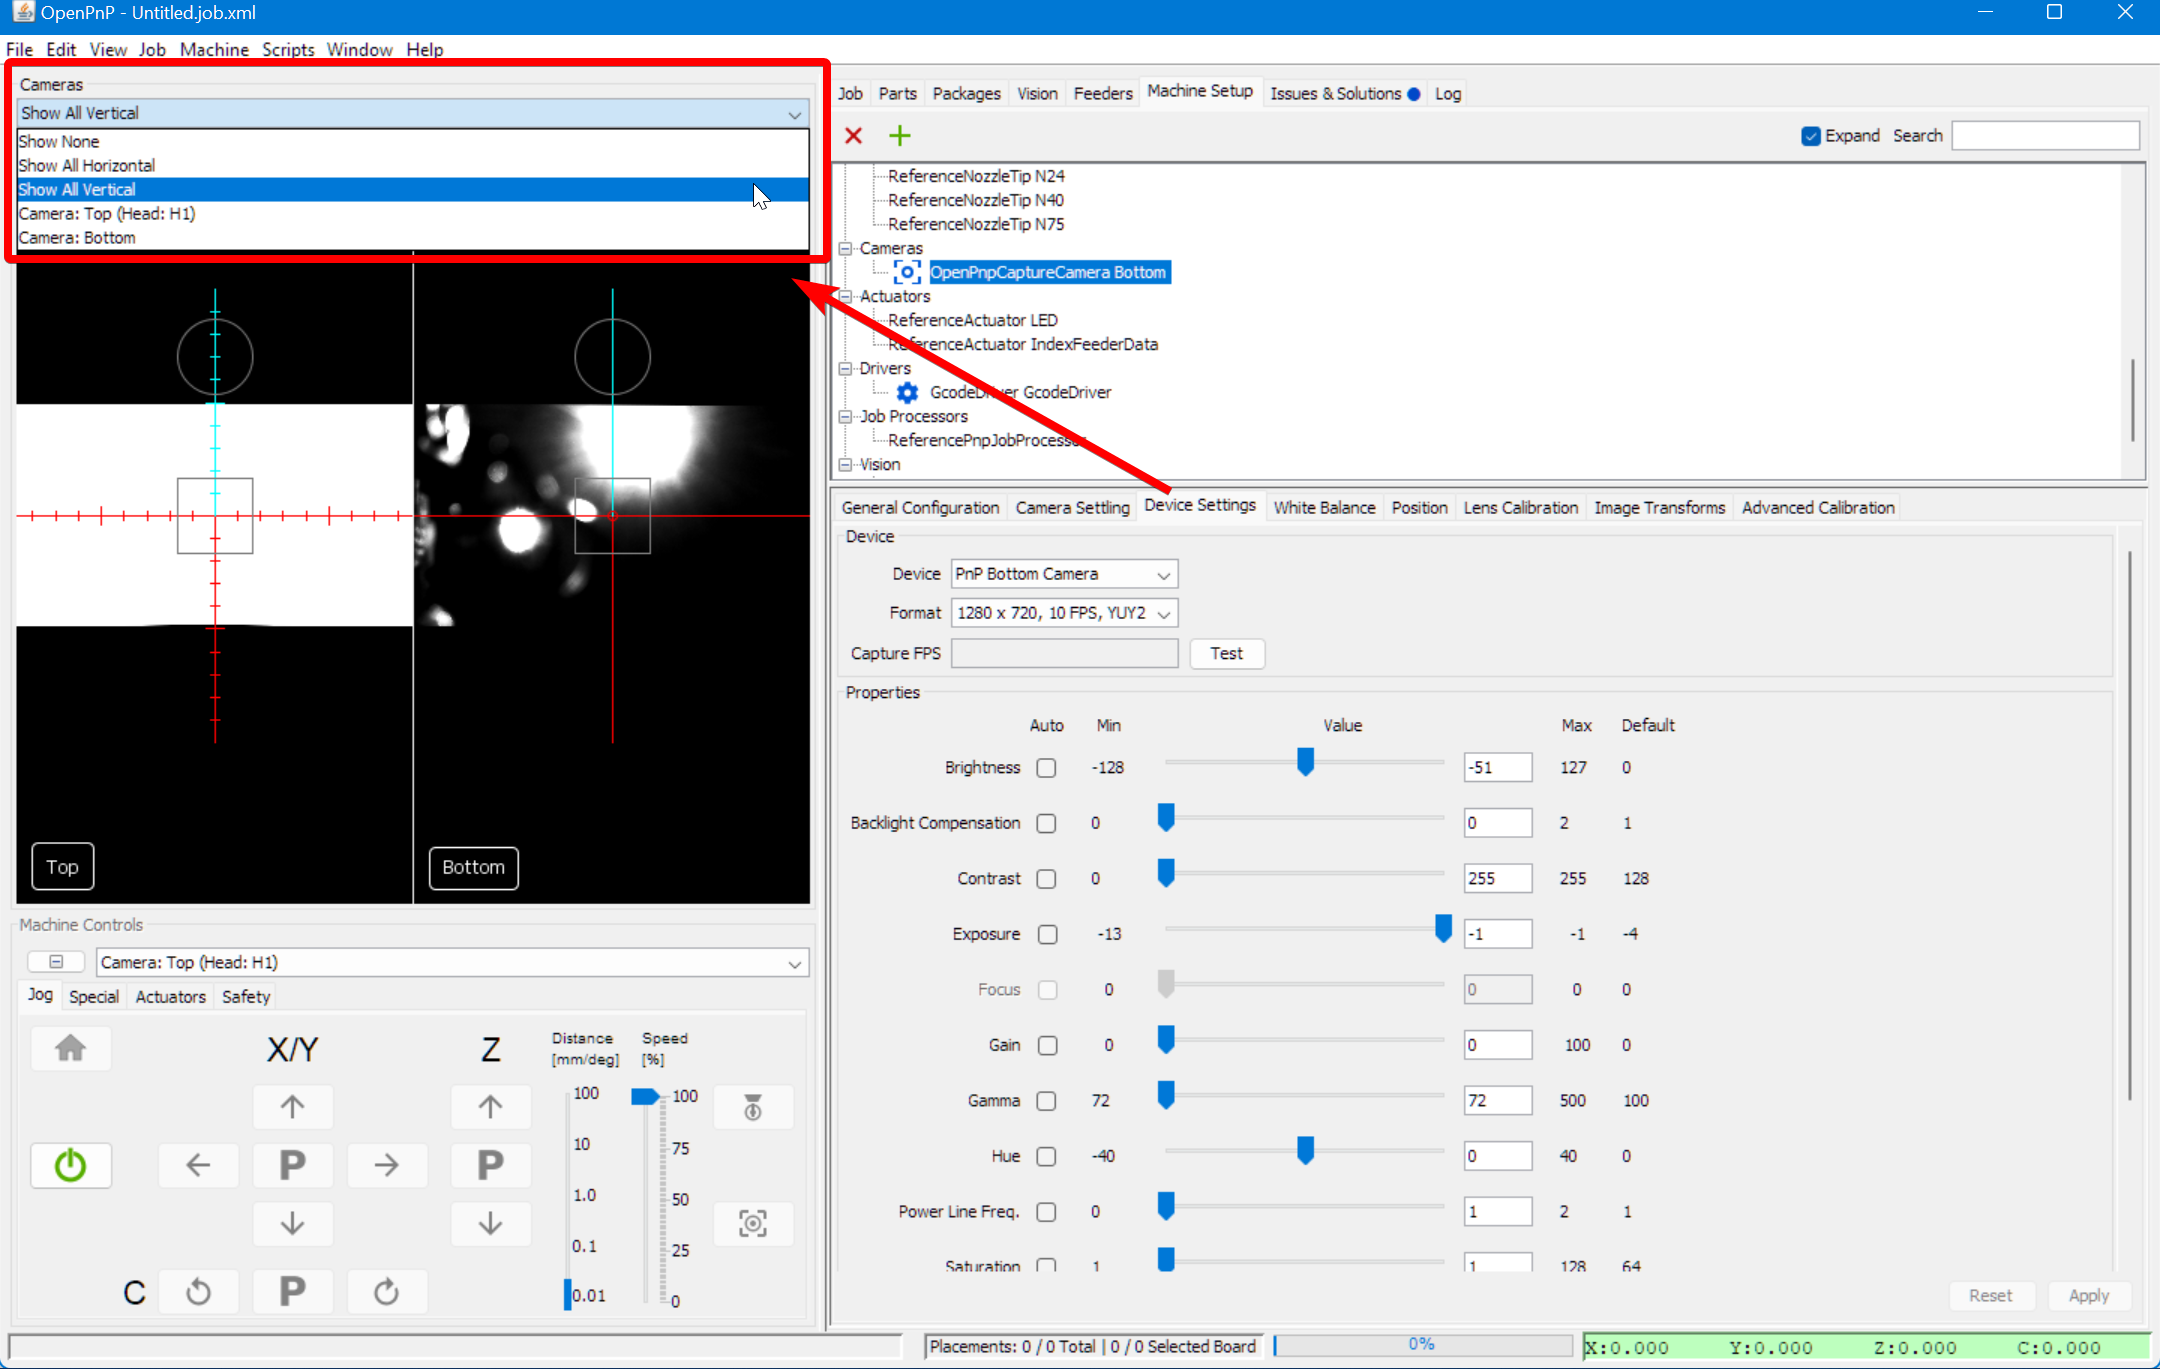
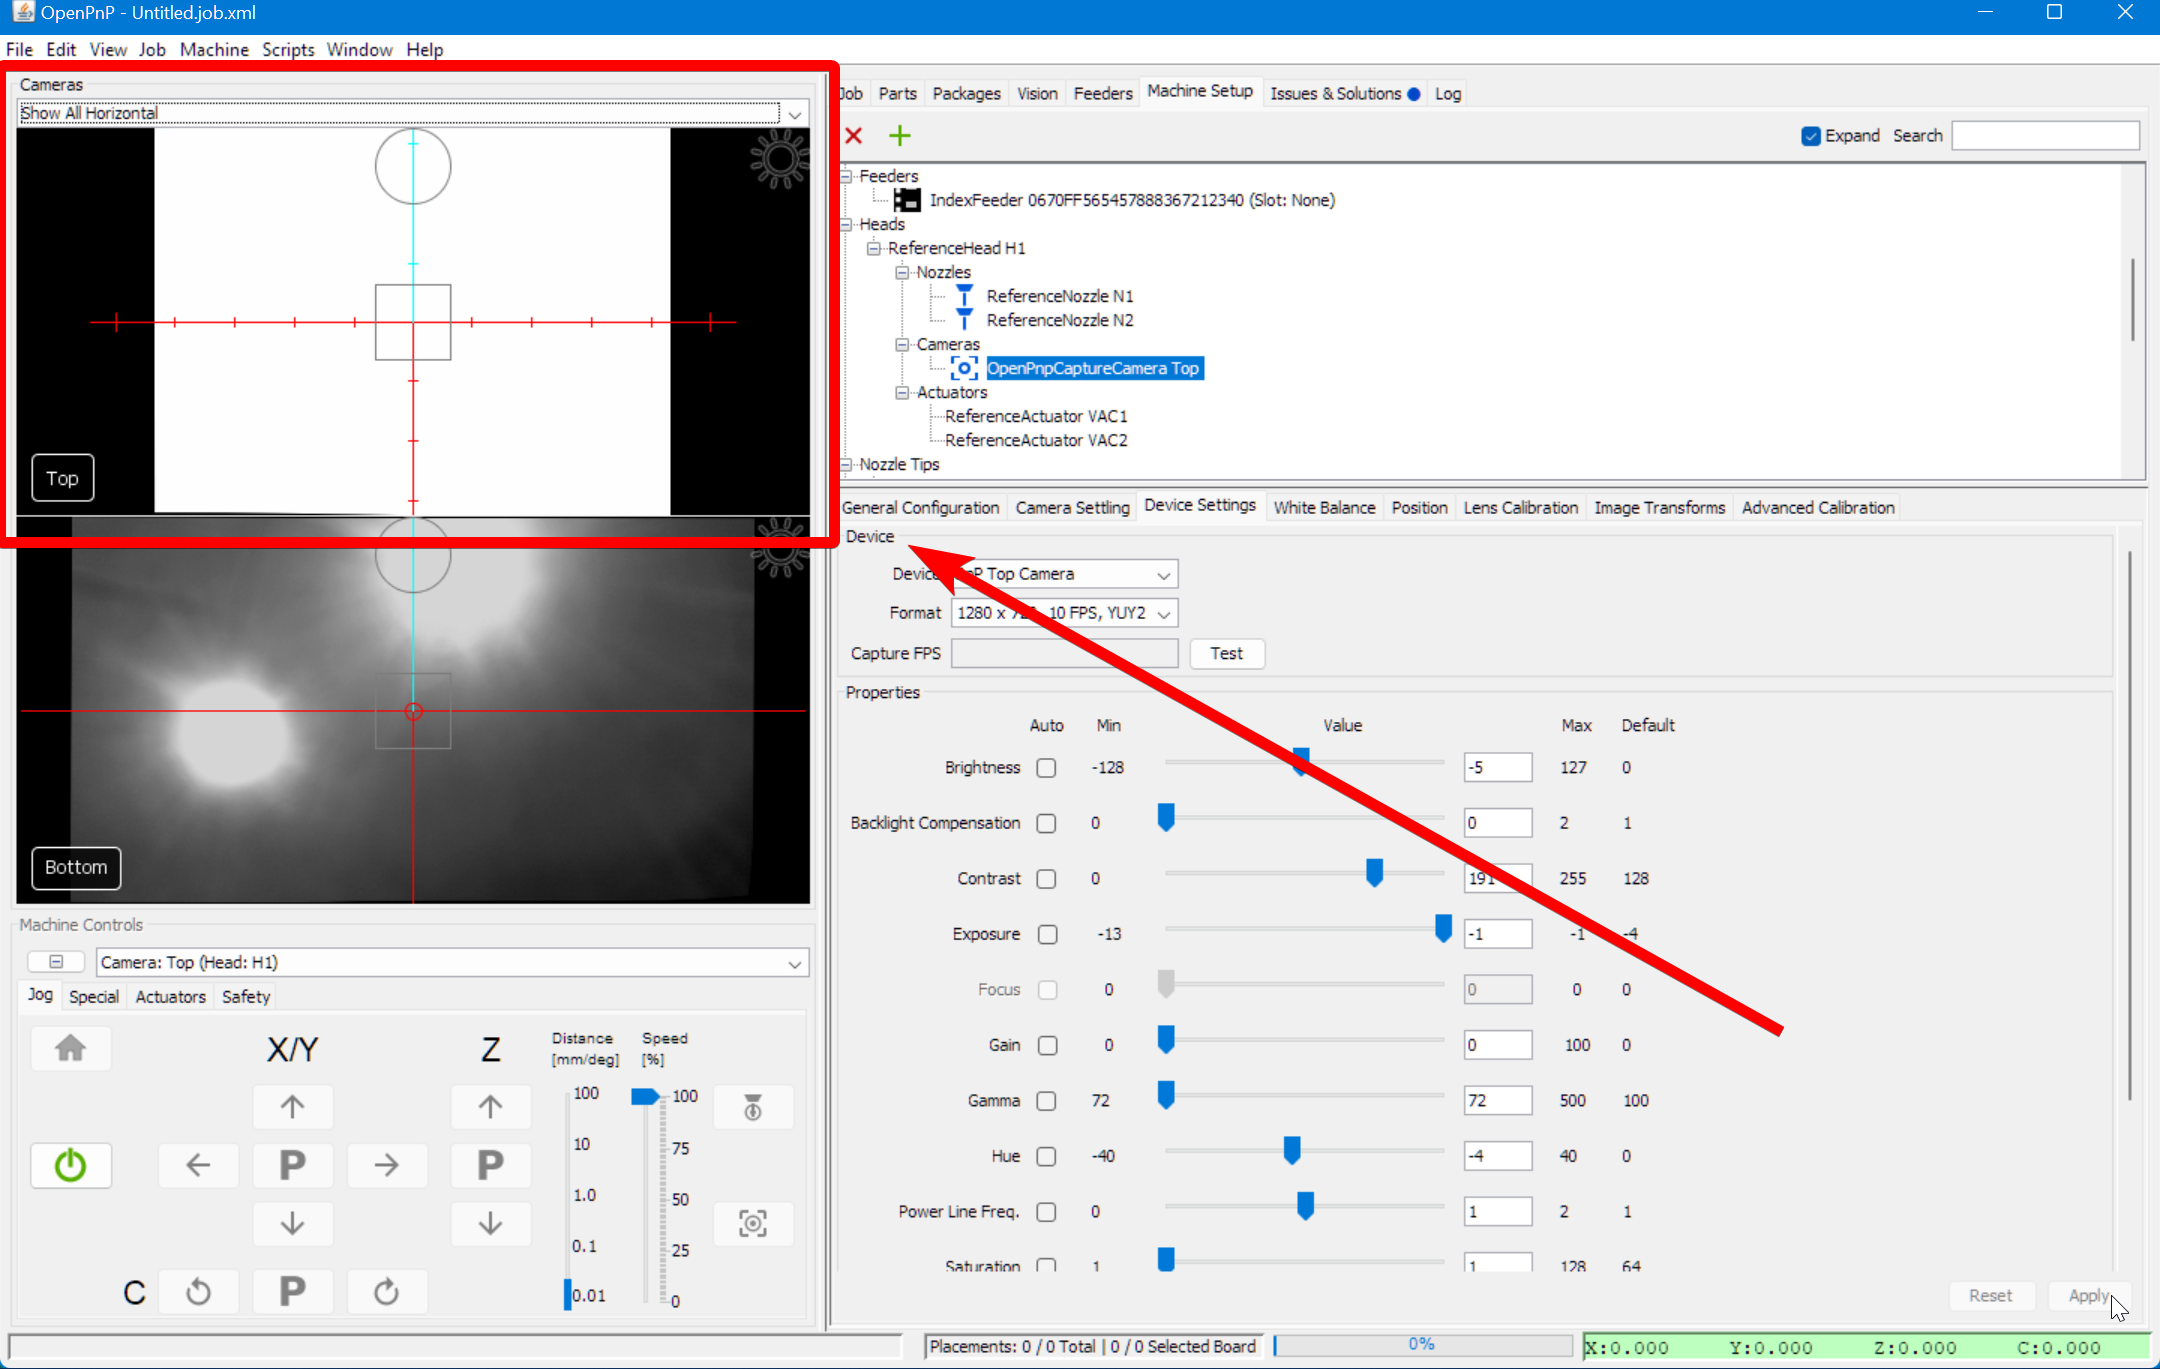
Added exposure tuning to import config, updated camera fish eye cal

diff --git a/content/en/openpnp/calibration/camera-fisheye-cal/index.md b/content/en/openpnp/calibration/camera-fisheye-cal/index.md
@@ -11,49 +11,48 @@ Now that you're connected to the LumenPnP, you'll need to set up the cameras so 
 
 The first step is to correct for the fisheye effect of the webcams to help make sure they can identify distances accurately. This is not a step you will need to re-run unless you replace your webcams or lenses. [Original OpenPnP documentation for reference](https://github.com/openpnp/openpnp/wiki/Camera-Lens-Calibration).
 
-## Top Camera Calibration
+## Bottom Camera Calibration
 
 1. Click on the `Machine Setup` tab.
-  {{< container-image path="images/Machine-Setup-Tab.png" alt="Selecting the Machine setup tab from the main screen" >}}
+  {{< container-image path="images/Machine-Setup-Tab-2.png" alt="Selecting the Machine setup tab from the main screen" >}}
 
 2. Click on the "Expand" checkbox to open all of the features about your machine.
-  {{< container-image path="images/Expand-Checkbox.png" alt="Expanding the Machine Config options" >}}
+  {{< container-image path="images/Expand-Checkbox-2.png" alt="Expanding the Machine Config options" >}}
 
-4. Under `Cameras` click on `OpenPnpCaptureCamera Top`
-  
-  {{< container-image path="images/Top-camera-settings.png" alt="Finding the Top Camera Settings" >}}
+3. Under `Cameras` click on `OpenPnpCaptureCamera Top`
+  {{< container-image path="images/Bottom-camera-settings-2.png" alt="Finding the Top Camera Settings" >}}
 
-5. In the lower detail pane, switch to the `Lens Calibration` tab
+4. In the lower detail pane, switch to the `Lens Calibration` tab
   {{< container-image path="images/Bottom-camera-lens-calibration-tab.png" alt="Switching to the lens calibration tab" >}}
 
 {{< alert color="info" title="Tip" >}}
-To see both camera views at the same time, click on the dropdown in the top left of the UI and select "Show All Horizontal".
+To see both camera views at the same time, click on the dropdown in the top left of the UI and select "Show All Vertical".
+{{< container-image path="images/show-all-cameras.png" alt="Switch the view to show both cameras" >}}
 {{< /alert >}}
 
-6. Click `Start Lens Calibration`.
+5. Click `Start Lens Calibration`.
   {{< container-image path="images/Bottom-camera-click-lens-calibration.png" alt="Starting bottom camera lens calibration" >}}
 
-7. OpenPnP is now looking for a specific pattern of dots. If you have a `v2` machine, you can find this pattern is on the back side of your datum board. If you have a `v3` machine, you can find this pattern on the back side of the FTP board in your Getting Started Kit.
+6. OpenPnP is now looking for a specific pattern of dots. If you have a `v2` machine, you can find this pattern is on the back side of your datum board. If you have a `v3` machine, you can find this pattern on the back side of the FTP board in your Getting Started Kit.
 
-8. Hold the pattern under the top camera as shown below. Check the camera view in OpenPnP to move the pattern into focus. If the focal distance is too close such that you can't get the whole pattern in focus and in the field of view, screw in the lens a few turns and test again. If you're having trouble adjusting the focus, try using the community-created [lens adjustment tool](https://www.printables.com/model/208453-lumen-pnp-lens-adjustment-tool).
+7. Hold the pattern under the top camera as shown below. Check the camera view in OpenPnP to move the pattern into focus. If the focal distance is too close such that you can't get the whole pattern in focus and in the field of view, screw in the lens a few turns and test again. If you're having trouble adjusting the focus, try using the community-created [lens adjustment tool](https://www.printables.com/model/208453-lumen-pnp-lens-adjustment-tool).
   {{< container-image path="images/PXL_20220519_165145418.jpg" alt="" >}}
 
-9. OpenPnP will flash when it takes an image of the pattern, and will require you to take a few for an accurate calibration. Slowly move the calibration pattern around the camera's field of view until OpenPnP tells you that it's gathered enough photos.
-
-{{< container-image path="images/Screen Shot 2022-05-19 at 12.53.30 PM.png" alt="" >}}
+8. OpenPnP will flash when it takes an image of the pattern, and will require you to take a few for an accurate calibration. Slowly move the calibration pattern around the camera's field of view until OpenPnP tells you that it's gathered enough photos.
+  {{< container-image path="images/Screen Shot 2022-05-19 at 12.53.30 PM.png" alt="" >}}
 
 {{< alert color="info" title="Tip" >}}
 If you're having a hard time getting the camera to pick up on the pattern on the datum board or FTP board, you can always print out the original calibration pattern recommended by OpenPnP, which you can find [here](https://nerian.com/support/calibration-patterns/). Be sure to download the "Circle Grid Camera Calibration Patterns" image.
 {{< /alert >}}
 
-11. Confirm that the `Apply Calibration?` checkbox is enabled checked after calibration is complete.
-  {{< container-image path="images/Screen Shot 2022-05-19 at 12.49.28 PM.png" alt="" >}}
+9. Confirm that the `Apply Calibration?` checkbox is enabled checked after calibration is complete.
+  {{< container-image path="images/apply-calibration-is-checked.png" alt="the apply calibration checkbox is checked" >}}
 
-## Bottom Camera Calibration
+## Top Camera Calibration
 
-13. Again, navigate to the `Machine Setup` tab
-14. Again, click the "Expand" checkbox if necessary
-15. Navigate to `Heads > ReferenceHead H1 > Cameras > OpenPnPCaptureCamera Bottom`
-  {{< container-image path="images/Bottom Camera Config.png" alt="Finding the Bottom Camera Settings" >}}
+10. Again, navigate to the `Machine Setup` tab
+11. Again, click the "Expand" checkbox if necessary
+12. Navigate to `Heads > ReferenceHead H1 > Cameras > OpenPnPCaptureCamera Top`
+  {{< container-image path="images/top-camera-config.png" alt="Finding the Top Camera Settings" >}}
 
-16. Continue with the same steps starting from number 5 above for the bottom camera.
+13. Continue with the same steps starting from number 4 above for the bottom camera.

diff --git a/content/en/openpnp/calibration/connect-to-machine/index.md b/content/en/openpnp/calibration/connect-to-machine/index.md
@@ -49,44 +49,52 @@ Now we'll set up the cameras. The big red "X" in the camera views means that Ope
 The LumenPnP motherboard in `v2` machines have a built in USB hub and USB ports for you to plug the two webcams into. This arrangement may not be compatible with your computer. Some computers use higher quality USB hubs, which can handle the bandwidth required to stream video from both webcams at once over a single USB port. From reports we've gotten from users, it seems that *many* computer manufactures do **not** include good enough USB hubs. In these cases, one or both of the USB webcams will fail to show up in the configuration list below. If this is the case, you will need to plug at least one of the webcams directly into your computer via a separate USB port. Occasionally this can cause the webcam's name to be incorrect, but you'll still be able to select it from the drop-down list with a little trial and error.
 {{% /alert %}}
 
-7. Again, navigate to the `Machine Setup` tab
-8. Again, click the "Expand" checkbox if necessary
-9. Under `Cameras` click on `OpenPnpCaptureCamera Bottom`
+7. In the top-left corner, change the camera view to one of the "Show All" options. You should then see two camera feeds that are black, and have red `x` on them.
+  {{< container-image path="images/switch-camera-display.png" alt="show both camera feeds" >}}
+
+8. Again, navigate to the `Machine Setup` tab.
+9. Again, click the "Expand" checkbox if necessary.
+10. Under `Cameras` click on `OpenPnpCaptureCamera Bottom`
   {{< container-image path="images/Bottom Camera Config.png" alt="Finding the Bottom Camera Settings" >}}
 
-10. In the lower detail pane, switch to the `Device Settings` tab
+10. In the lower detail pane, switch to the `Device Settings` tab.
   {{< container-image path="images/Bottom-camera-device-settings.png" alt="Switching to the camera device settings" >}}
 
 11. In the `Device` drop-down, choose `PnP Bottom Camera (PnP Bottom Camera)`
   {{< container-image path="images/Bottom-camera-select-device.png" alt="Selecting the correct device for the Bottom Camera" >}}
 
-12. In the `Format` drop-down, choose the `1280x720 10fps` setting
+12. In the `Format` drop-down, choose the `1280x720 10fps` setting.
   {{< container-image path="images/Bottom resolution.png" alt="setting bottom camera resolution" >}}
 
-13. Click the "Apply" button in the bottom right
+13. Click the "Apply" button in the bottom right. You should then see the camera display start showing the feed from the camera, or at least see the red `x` disappear. We'll fix the exposure next.
   {{< container-image path="images/Bottom Camera Apply.png" alt="Saving changes to the Bottom Camera Config" >}}
+  {{< container-image path="images/Bottom-camera-on.png" alt="Bottom camera is now on" >}}
+
+14. Adjust the exposure to make the camera feed more reasonable. On some computers, you can toggle Automatic Exposure on, and then back off again to set it correctly. Do not keep auto exposure turned on. And remember you can adjust the exposure later when you're actually using the camera.
+  {{< container-image path="images/adjust-exposure.png" alt="Adjust exposure" >}}
 
 ## Top Camera Config
 
-14. Again, navigate to the `Machine Setup` tab
-15. Again, click the "Expand" checkbox if necessary
+14. Again, navigate to the `Machine Setup` tab.
+15. Again, click the "Expand" checkbox if necessary.
 16. Navigate to `Heads > ReferenceHead H1 > Cameras > OpenPnPCaptureCamera Top`
   {{< container-image path="images/Top-camera-settings.png" alt="Finding the Top Camera Settings" >}}
 
-17. In the lower detail pane, switch to the `Device Settings` tab
+17. In the lower detail pane, switch to the `Device Settings` tab.
   {{< container-image path="images/Top-camera-device-settings.png" alt="Switching to the camera device settings" >}}
 
-18. In the `Device` drop-down, choose `PnP Bottom Camera (PnP Top Camera)`
+18. In the `Device` drop-down, choose `PnP Bottom Camera (PnP Top Camera)`.
   {{< container-image path="images/Top-camera-select-device.png" alt="Selecting the correct device for the Bottom Camera" >}}
 
-19. In the `Format` drop-down, choose the `1280x720 10fps` setting
+19. In the `Format` drop-down, choose the `1280x720 10fps` setting.
   {{< container-image path="images/Top resolution.png" alt="setting top camera resolution" >}}
 
-20. Click the "Apply" button in the bottom right
+20. Click the "Apply" button in the bottom right. You should then see the camera display start showing the feed from the camera, or at least see the red `x` disappear. We'll fix the exposure next.
   {{< container-image path="images/Top Camera Apply.png" alt="Saving changes to the Top Camera Config" >}}
+  {{< container-image path="images/top-camera-on.png" alt="Top camera is now on" >}}
 
-21. To check that both cameras are working now, select your preferred view option in the top left `Cameras` section. The Camera feeds should update automatically. If you only see a black image but the red `X` has disappeared, it's likely that your camera is connected properly, but just has its exposure set too low. We'll address this in a later step. Remember to remove the plastic lens covers from each camera, too.
-  {{< container-image path="images/Both-cameras-working.png" alt="Both cameras showing live outputs." >}}
+21. Adjust the exposure to make the camera feed more reasonable. On some computers, you can toggle Automatic Exposure on, and then back off again to set it correctly. Do not keep auto exposure turned on. And remember you can adjust the exposure later when you're actually using the camera.
+  {{< container-image path="images/adjust-exposure-2.png" alt="Adjust exposure" >}}
 
 ## Connecting to the LumenPnP
 
